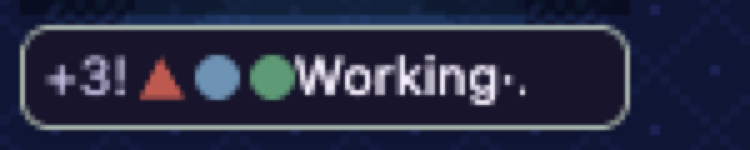
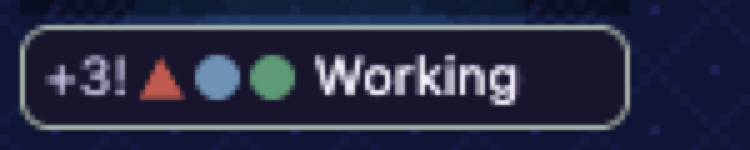
Retro arcade narrow plate: 4 px between the last helper mark and the word, measured and asserted (spec 102 FR-313, round 4 of 1574)

Changed region(s): [[0.368, 0.3467, 0.7053, 0.72], [0.0307, 0.24, 0.0613, 0.2667]]

diff --git a/scripts/shots-102-arcade.js b/scripts/shots-102-arcade.js
@@ -209,9 +209,10 @@ const run = async (ctx, reqs) => {
       const hm=h.querySelector('.ro-hm'),hmr=hm&&hm.getClientRects().length?hm.getBoundingClientRect():null,own=p.querySelector('.ro-l2>.dot'),ownr=own&&own.getClientRects().length?own.getBoundingClientRect():null,d0=dots[0]?dots[0].getBoundingClientRect():null;
       rec.hm=hm?{shown:!!hmr,inside:!!hmr&&hmr.left>=l1.left-0.5&&hmr.right<=Math.min(l1.right,hr.right)+0.5,txt:hc.textContent.trim()}:null;rec.urgN=urg.filter(Boolean).length;rec.order=urg.map((u)=>u?'U':'o').join('');rec.ownDot=!!ownr;
       rec.m={word:+a.width.toFixed(1),plus:+c.width.toFixed(1),mark:hmr?+hmr.width.toFixed(1):0,dot:d0?+d0.width.toFixed(1):0,ownDot:ownr?+ownr.width.toFixed(1):0,content:+(right-(pr.left+parseFloat(cs.borderLeftWidth)+parseFloat(cs.paddingLeft))).toFixed(1),lineW:+b.width.toFixed(1),markBox:+l1.width.toFixed(1)};
-      rec.shown=sh.filter((v)=>v===1).length;rec.helpers=dots.length;rec.cls=dots.map((d)=>d.className.replace('dot ','')).join();rec.urgentShown=urg.some((u,i)=>u&&sh[i]===1)?1:urg.some(Boolean)?0:-1;}
+      rec.shown=sh.filter((v)=>v===1).length;{const ls=dots.map((d,i)=>sh[i]===1?d.getBoundingClientRect().right:-1e9).reduce((m,v)=>Math.max(m,v),-1e9);rec.gap=ls>-1e8?+(a.left-ls).toFixed(3):null;}rec.helpers=dots.length;rec.cls=dots.map((d)=>d.className.replace('dot ','')).join();rec.urgentShown=urg.some((u,i)=>u&&sh[i]===1)?1:urg.some(Boolean)?0:-1;}
     return {out,seen};})()`;
   const MUT = process.env.ARCADE_MUTANT || '';
+  const MARK_GAP = 4; /* spec 102 FR-313 (round 4): px between the last helper mark shown and the word on the narrow plate, so a helper's mark never reads as the plate's own state */
   const NARROW_ROOM = 3; /* spec 102 FR-312: the written margin, in px, between the status word's right end and the narrow plate's content box (measured on macOS/Electron in the spec delta); a font 3 px wider than this one still shows the word whole */
   /* ARCADE_MUTANT (test only), each must fail at its own label: cutword = the line as it was (the helpers' mark a fixed width, the line free to shrink below its word); cutplate = a plate narrower than its line
      (the word runs under the pencil); nodots = the mark's line has no room but the +N (no dot shown); sliver = the dots do not wrap, so one is cut in part; clipstate = the dots in creation order (an error dot last) */
@@ -223,6 +224,7 @@ const run = async (ctx, reqs) => {
     nomark: `.ro[data-world="retro"] .ro-plate.cab-narrow.has-ren.has-help:not(.lounge) .ro-hm{display:none!important}`,
     nohelpdot: `.ro[data-world="retro"] .ro-plate.cab-narrow.has-ren:not(.has-help,.lounge) .ro-l2>.dot{display:inline-block!important}`,
     nopenmark: `.ro[data-world="retro"] .ro-plate.cab-narrow:not(.has-ren) .ro-hm{display:none!important}`,
+    nogap: `.ro[data-world="retro"] .ro-plate.cab-narrow.has-help:not(.lounge) .ro-help .dot{margin-right:0!important}`,
     nopendotfull: `.ro[data-world="retro"] .ro-plate.cab-narrow.has-help:not(.has-ren) .ro-l2{gap:0!important}.ro[data-world="retro"] .ro-plate.cab-narrow.has-help:not(.has-ren) .ro-l2>.dot{display:inline-block!important;margin-right:7px!important}`,
     nopendot: `.ro[data-world="retro"] .ro-plate.cab-narrow.has-help:not(.has-ren) .ro-l2>.dot{display:inline-block!important;width:1px!important;height:1px!important;margin:0!important}`,
     sliver: `.ro[data-world="retro"] .ro-plate.has-help:not(.lounge) .ro-help{flex-wrap:nowrap!important}.ro[data-world="retro"] .ro-plate.has-help:not(.lounge) .ro-l1{min-width:0!important}`,
@@ -292,11 +294,17 @@ const run = async (ctx, reqs) => {
       await markCheck(w + 'x' + h + ' narrow limit failed helper no pencil', {}, { states: 'limit', urgent: true, nopencil: true });
     }
     /* a Working plate on the narrow cabinet with a failed helper: the plate draws no own dot, so the picture shows what a reader sees of the state (the word, the border, the marquee) beside the helper's red dot */
-    if (w < 1440 && !MUT) {
+    if (w < 1440) {
       await loadArcade(w, h, 24, { simfreeze: '1', simhelpers: '3' });
       await js(`(()=>{const U=window.__durbarSimUi;U.agents().filter(a=>!a.parent).forEach((a)=>{a.state='working';delete a.label;});U.render();})();0`);
       await must(`(()=>{const P=[...document.querySelectorAll('#stage .ro-plate[data-id]:not(.lounge)')];return P.filter(p=>p.classList.contains('st-working')).length>=10;})()`, 'at least 10 plates drawn working', 8000);
-      await H.shot(path.join(OUT, `102-arcade-narrow-working-${w}x${h}.png`), { prep: 'calm', settle: true, tag: '102-arcade', what: 'narrow-working' });
+      if (MUTS[MUT]) await js(`(()=>{const s=document.createElement('style');s.textContent=${jsLiteral(MUTS[MUT])};document.head.appendChild(s);})();0`);
+      const wk = await js(PLATES());
+      const wp = wk.seen.filter((x) => x.narrow && x.helped && x.word === 'Working' && x.shown >= 1);
+      assert.ok(wp.length >= 1, 'issue 1574: ' + w + 'x' + h + ' narrow working: a narrow plate with helpers, the word "Working" and at least one helper mark shown is drawn (the case for the gap), saw ' + JSON.stringify(wk.seen.filter((x) => x.narrow && x.helped).slice(0, 3).map((x) => [x.word, x.shown, x.gap])));
+      assert.ok(wp.every((x) => x.gap !== null && x.gap >= MARK_GAP - 0.02), 'issue 1574: ' + w + 'x' + h + ' narrow working: the last helper mark shown is at least ' + MARK_GAP + ' px from the word (measured between the mark\'s right edge and the word\'s left edge), so it cannot read as the plate\'s own state: ' + JSON.stringify(wp.map((x) => [x.shown, x.gap])));
+      assert.ok(wp.every((x) => x.urgentShown === 1), 'issue 1574: ' + w + 'x' + h + ' narrow working: the failed helper\'s mark is among those shown: ' + JSON.stringify(wp.map((x) => x.urgentShown)));
+      if (!MUT) await H.shot(path.join(OUT, `102-arcade-narrow-working-${w}x${h}.png`), { prep: 'calm', settle: true, tag: '102-arcade', what: 'narrow-working' });
     }
     /* issue 1600: the same plate with a pencil and no helpers at all */
     if (w < 1440) {

diff --git a/src/renderer/realoffice/worlds/retro/world.css b/src/renderer/realoffice/worlds/retro/world.css
@@ -92,6 +92,9 @@
 .ro[data-world="retro"] .ro-plate.cab-narrow.has-ren.has-help:not(.lounge) .ro-l2{gap:0} /* the task run (width 0 here) must not take the 4 px gap from the word; its text starts with the " · " */
 /* margin (spec 102 FR-312): 3 px less padding at the left and no 1 px gap between the count and the word win 4 px of the 93 px; the pencil (right end, 20 px of padding) is not moved */
 .ro[data-world="retro"] .ro-plate.cab-narrow.has-ren:not(.lounge){padding-left:var(--s-1)}
+/* spec 102 FR-313 (round 4 of #1574): a helper mark must never read as the plate's own state, so the last mark SHOWN has 4 px of margin after it, before the word: on the margin of each mark (a mark that wraps out of sight takes its margin with it, so a plate that shows no mark, as "Limit reached" does, keeps its room), with the marks 2 px apart as before */
+.ro[data-world="retro"] .ro-plate.cab-narrow.has-help:not(.lounge) .ro-help .dot{margin-right:var(--s-1)}
+.ro[data-world="retro"] .ro-plate.cab-narrow.has-help:not(.lounge) .ro-help .dot+.dot{margin-left:calc(-1*var(--s-1))}
 .ro[data-world="retro"] .ro-plate.cab-narrow.has-ren.has-help:not(.lounge){gap:0}
 /* spec 097 FR-357 (bug #1427): a cabinet's plate does not draw the name (it is on the marquee), so the rename pencil is anchored to the plate: at its right end,
    inside it (the 11 px icon ends 6.5 px before the edge); 20 px of padding there end the status and the dots (ellipsis) before the icon. A lounge seat's plate draws the name: FR-170's place */
